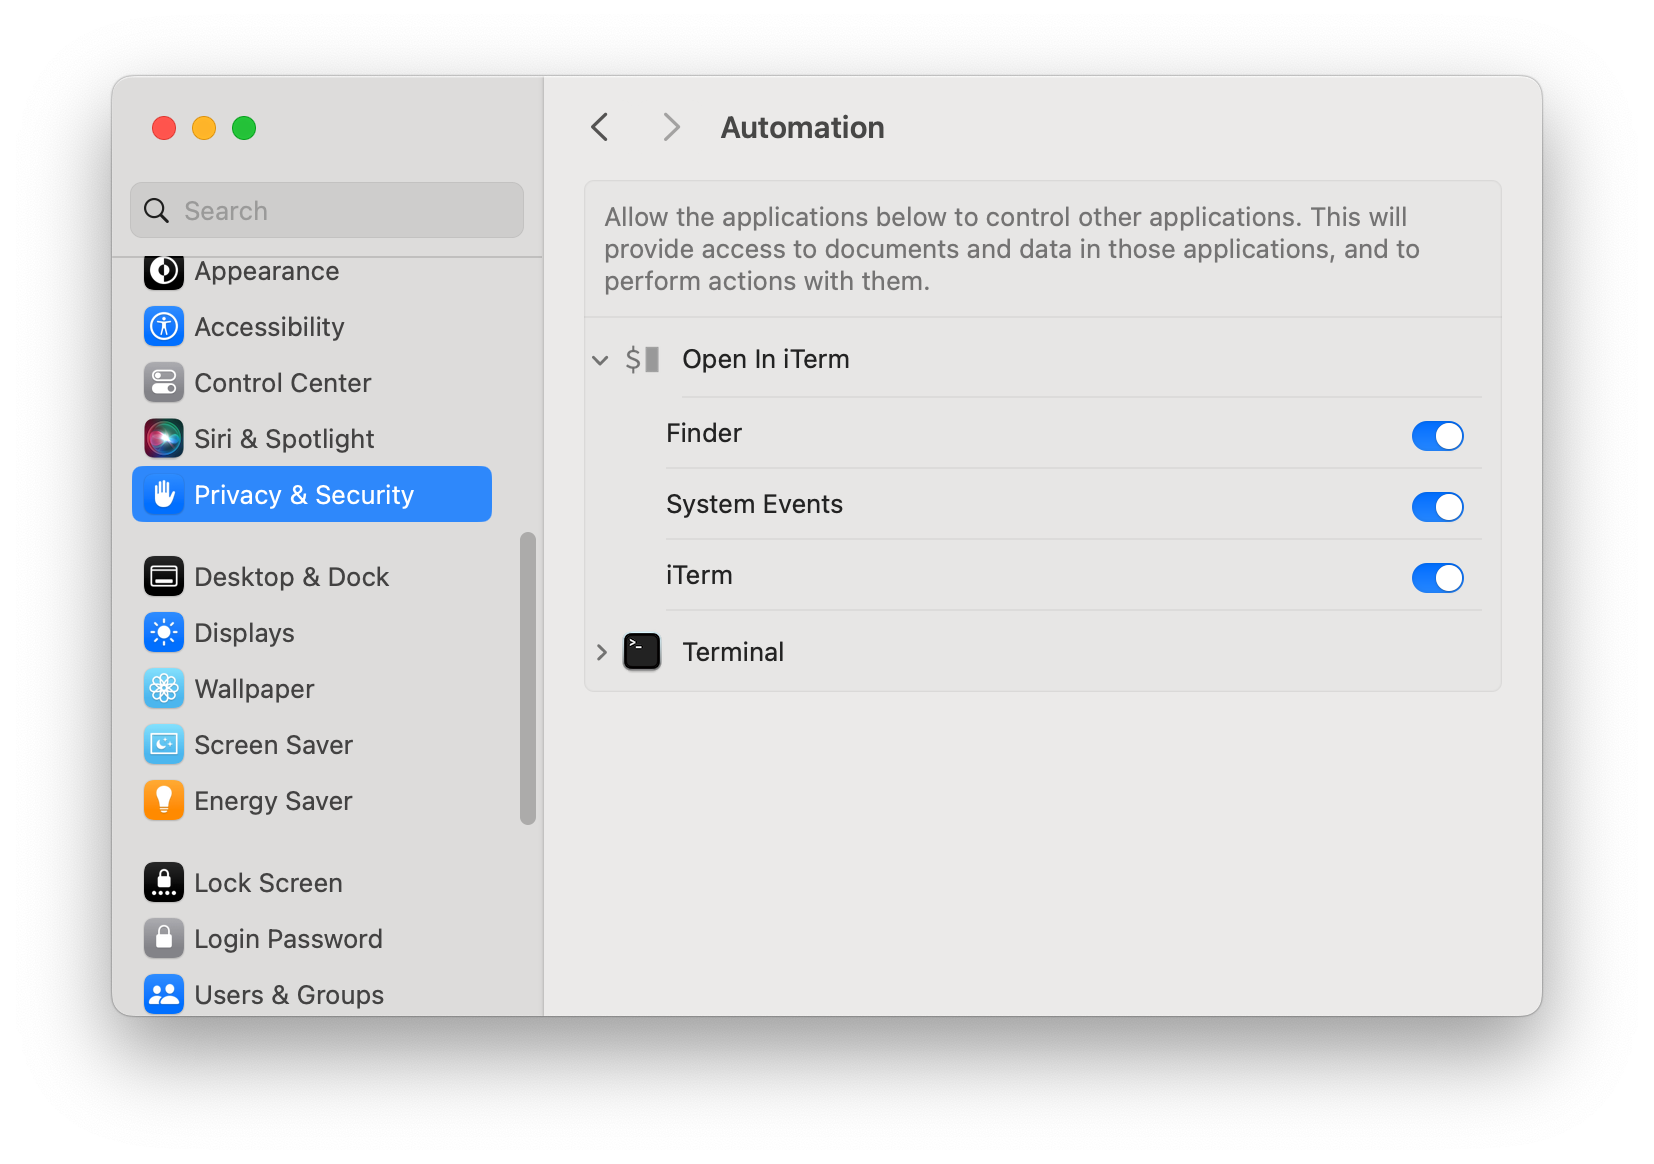
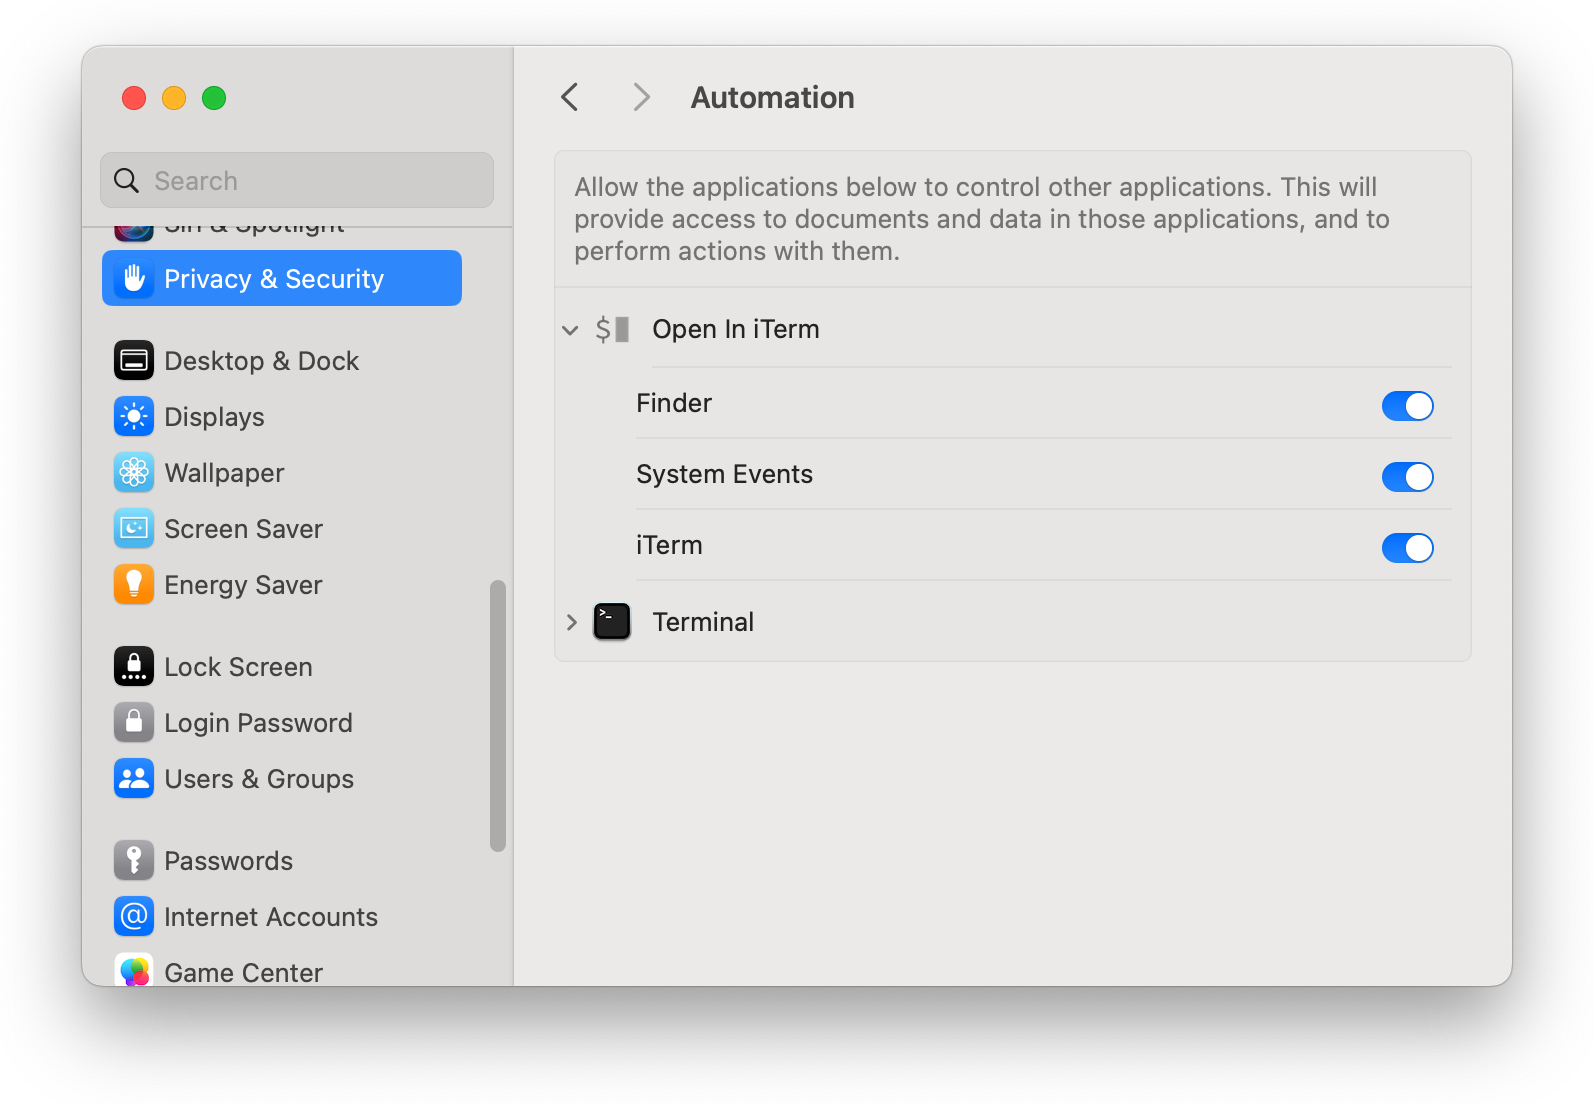
Update the README and screenshots

diff --git a/README.md b/README.md
@@ -1,15 +1,8 @@
-It's often handy to switch between looking at a folder's contents in Finder, and running command-line utilities in it. You can switch from command-line to GUI by running `open .` to view your shell's working directory in Finder, but there is no built-in utility to do the reverse.
+It's often handy to switch between looking at a folder's contents in Finder, and running command-line utilities in it. You can switch from command line to GUI by running `open .` to view your shell's working directory in Finder, but the reverse isn't as easy.
 
-That's why this app exists. After installing it as a Finder toolbar button, you can click the icon in (just about) any Finder window to open a new [iTerm](https://iterm2.com) tab, with your shell's working directory automatically switched to the Finder window's folder. Or you can hold the **fn** or **shift** key down as you click, to open the folder in a new iTerm window, instead of a new tab.
+That's why this app exists. After installing it as a Finder toolbar button, you can click its icon in (just about) any Finder window to open a new [iTerm](https://iterm2.com) tab, with your shell's working directory automatically switched to the Finder window's folder. Or you can hold the **fn** or **shift** key down as you click, to open the folder in a new iTerm window, instead of a new tab.
 
 If you prefer Apple's Terminal app, see [Open in Terminal](https://github.com/jakshin/open-in-terminal).
-
-
-## Usage
-
-Once the app is installed, each of your Finder windows will contain the its icon. Just click the icon to open the Finder window's folder in iTerm. You can also launch the app in other ways, such as through Spotlight, and it will use the folder displayed in your frontmost Finder window.
-
-A small wrapper script named `iterm` is also provided, which invokes the app to open a new iTerm tab or window displaying a given directory. This can be handy if you use both Terminal and iTerm. Run `iterm --help` for usage details.
 
 
 ## Installation
@@ -22,30 +15,38 @@ Then run `build.sh`, which will create `Open In iTerm.app`.
 The build script tries to detect whether you have macOS's dark mode enabled, to decide which icon to build the app with, so you may see a popup asking to grant Terminal access to control System Events. If you say no (or if you've previously declined to grant Terminal this access), the build script will use the light-mode icon by default. You can pass the `--dark` or `--light` option to the build script to manually select an icon, avoiding the need for the script to try to detect dark mode.
 
 <div align="center">
-	<img width=342 alt="Screenshot of popup" src="screenshots/terminal-control-system-events.png">
+	<img width=228 alt="Screenshot of popup" src="screenshots/terminal-control-system-events.png">
 </div>
 
 ### Step 2: Allow automation access
 
 Launch the app for the first time, while holding the **fn** or **shift** key down. You'll see a series of popups asking to grant it access to control Finder, System Events, and iTerm. You'll need to allow each, or Open In iTerm won't be able to do its thing:
 
- <div align-"center">
- 	<img width=256 alt="Screenshot of popup" src="screenshots/control-finder.png">
- 	<img width=256 alt="Screenshot of popup" src="screenshots/control-system-events.png">
- 	<img width=256 alt="Screenshot of popup" src="screenshots/control-iterm.png">
- </div>
+<div align="center">
+	<img width=228 alt="Screenshot of popup" src="screenshots/control-finder.png">
+	<img width=228 alt="Screenshot of popup" src="screenshots/control-system-events.png">
+	<img width=228 alt="Screenshot of popup" src="screenshots/control-iterm.png">
+</div>
 
-If you accidentally don't allow access to any of these apps, you can fix it in **System Settings**, on the **Privacy & Security > Automation** screen:   
-![[Screenshot of Automation settings]](screenshots/automation-settings.png)
+If you accidentally don't allow access to any of these apps, you can fix it in **System Settings**, on the **Privacy & Security > Automation** screen:
+
+<div align="center">
+	<img width=531 alt="Screenshot of Automation settings" src="screenshots/automation-settings.png">
+</div>
 
 ### Step 3: Drag the application into your Finder toolbar
 
-Hold the **command** key down and drag `Open In iTerm.app` into your Finder toolbar:   
-![[Screenshot of holding Command and dragging]](screenshots/hold-command-and-drag.png)
+Hold the **command** key down and drag `Open In iTerm.app` into your Finder toolbar:
+
+<div align="center">
+	<img width=531 alt="Screenshot of holding Command and dragging" src="screenshots/hold-command-and-drag.png">
+</div>
 
 ### Step 4: Install the wrapper script (optional)
 
-Copy or symlink the `iterm` wrapper script to a directory that's in your shell's path, or add the directory it's in to your path. For example, to create a symlink in `/usr/local/bin`, run this from the directory containing the script:
+A small wrapper script named `iterm` is also provided, which invokes the app to open a new iTerm tab or window displaying a given directory. This can be handy if you use both Terminal and iTerm. Run `iterm --help` for usage details.
+
+To innstall the `iterm` script, copy or symlink it in a directory that's in your shell's path, or add the directory it's in to your path. For example, to create a symlink in `/usr/local/bin`, run this from the directory containing the script:
 
 ```bash
 [[ -d /usr/local/bin ]] || sudo mkdir -p /usr/local/bin
